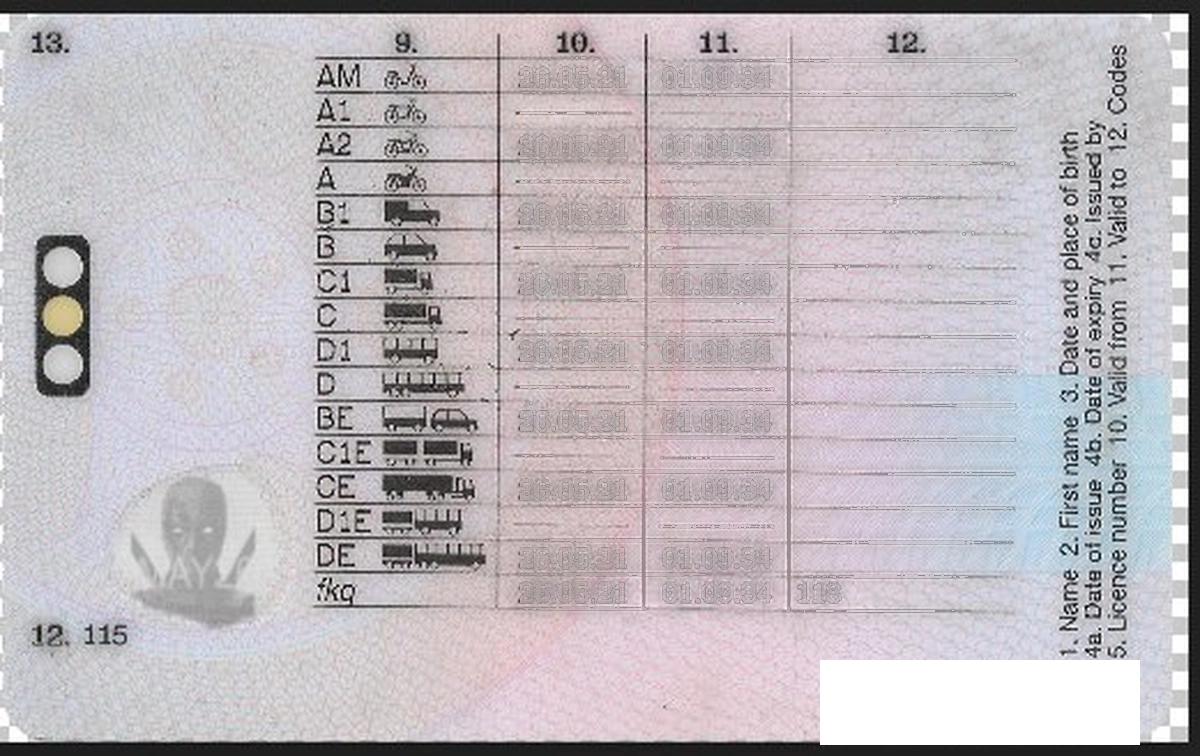
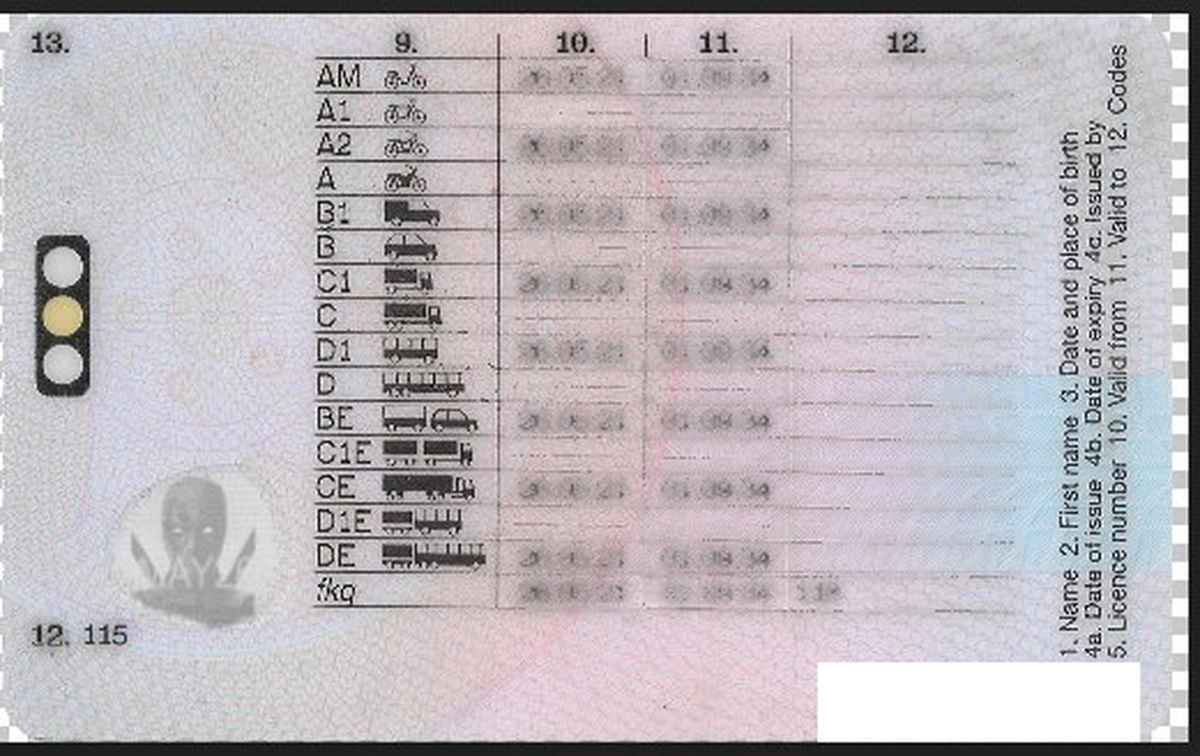
fix(uk): restore missing middle names, dot-formatted UK dates, address bindings, donor code 115, and category table rows

diff --git a/static/index.html b/static/index.html
@@ -4084,46 +4084,50 @@ Y4509481,SEAN,HARRISON,19700812,20300812,456 MARKET ST,SAN FRANCISCO,CA,94105,08
                             <div id="card-back-uk-view" class="hidden w-full h-full relative overflow-hidden select-none z-10" style="background: #ffffff url('card_templates/uk_back.webp') no-repeat center / cover;">
                                 
                                 <!-- Column 10: Valid From Dates -->
-                                <div class="absolute select-none z-20 pointer-events-none" style="top: 10.9%; left: 44.5%;">
-                                    <span id="uk-valid-from-am" class="font-sans text-[7px] sm:text-[7.5px] font-bold text-slate-900 leading-none">30.12.17</span>
-                                </div>
-                                <div class="absolute select-none z-20 pointer-events-none" style="top: 33.6%; left: 44.5%;">
-                                    <span id="uk-valid-from-b" class="font-sans text-[7px] sm:text-[7.5px] font-bold text-slate-900 leading-none">30.12.17</span>
-                                </div>
-                                <div class="absolute select-none z-20 pointer-events-none" style="top: 78.9%; left: 44.5%;">
-                                    <span id="uk-valid-from-fkq" class="font-sans text-[7px] sm:text-[7.5px] font-bold text-slate-900 leading-none">30.12.17</span>
-                                </div>
+                                <div class="absolute select-none z-20 pointer-events-none" style="top: 11.2%; left: 44.5%;"><span id="uk-valid-from-am" class="font-sans text-[6.5px] sm:text-[7.5px] font-bold text-slate-900 leading-none">16.08.21</span></div>
+                                <div class="absolute select-none z-20 pointer-events-none" style="top: 20.0%; left: 44.5%;"><span id="uk-valid-from-a2" class="font-sans text-[6.5px] sm:text-[7.5px] font-bold text-slate-900 leading-none">16.08.21</span></div>
+                                <div class="absolute select-none z-20 pointer-events-none" style="top: 28.7%; left: 44.5%;"><span id="uk-valid-from-b1" class="font-sans text-[6.5px] sm:text-[7.5px] font-bold text-slate-900 leading-none">16.08.21</span></div>
+                                <div class="absolute select-none z-20 pointer-events-none" style="top: 33.1%; left: 44.5%;"><span id="uk-valid-from-b" class="font-sans text-[6.5px] sm:text-[7.5px] font-bold text-slate-900 leading-none">16.08.21</span></div>
+                                <div class="absolute select-none z-20 pointer-events-none" style="top: 37.4%; left: 44.5%;"><span id="uk-valid-from-c1" class="font-sans text-[6.5px] sm:text-[7.5px] font-bold text-slate-900 leading-none">16.08.21</span></div>
+                                <div class="absolute select-none z-20 pointer-events-none" style="top: 46.2%; left: 44.5%;"><span id="uk-valid-from-d1" class="font-sans text-[6.5px] sm:text-[7.5px] font-bold text-slate-900 leading-none">16.08.21</span></div>
+                                <div class="absolute select-none z-20 pointer-events-none" style="top: 54.9%; left: 44.5%;"><span id="uk-valid-from-be" class="font-sans text-[6.5px] sm:text-[7.5px] font-bold text-slate-900 leading-none">16.08.21</span></div>
+                                <div class="absolute select-none z-20 pointer-events-none" style="top: 63.6%; left: 44.5%;"><span id="uk-valid-from-ce" class="font-sans text-[6.5px] sm:text-[7.5px] font-bold text-slate-900 leading-none">16.08.21</span></div>
+                                <div class="absolute select-none z-20 pointer-events-none" style="top: 72.4%; left: 44.5%;"><span id="uk-valid-from-de" class="font-sans text-[6.5px] sm:text-[7.5px] font-bold text-slate-900 leading-none">16.08.21</span></div>
+                                <div class="absolute select-none z-20 pointer-events-none" style="top: 78.0%; left: 44.5%;"><span id="uk-valid-from-fkq" class="font-sans text-[6.5px] sm:text-[7.5px] font-bold text-slate-900 leading-none">16.08.21</span></div>
 
                                 <!-- Column 11: Valid To Dates -->
-                                <div class="absolute select-none z-20 pointer-events-none" style="top: 10.9%; left: 56.5%;">
-                                    <span id="uk-valid-to-am" class="font-sans text-[7px] sm:text-[7.5px] font-bold text-slate-900 leading-none">29.12.27</span>
-                                </div>
-                                <div class="absolute select-none z-20 pointer-events-none" style="top: 33.6%; left: 56.5%;">
-                                    <span id="uk-valid-to-b" class="font-sans text-[7px] sm:text-[7.5px] font-bold text-slate-900 leading-none">29.12.27</span>
-                                </div>
-                                <div class="absolute select-none z-20 pointer-events-none" style="top: 78.9%; left: 56.5%;">
-                                    <span id="uk-valid-to-fkq" class="font-sans text-[7px] sm:text-[7.5px] font-bold text-slate-900 leading-none">29.12.27</span>
-                                </div>
+                                <div class="absolute select-none z-20 pointer-events-none" style="top: 11.2%; left: 56.5%;"><span id="uk-valid-to-am" class="font-sans text-[6.5px] sm:text-[7.5px] font-bold text-slate-900 leading-none">30.07.31</span></div>
+                                <div class="absolute select-none z-20 pointer-events-none" style="top: 20.0%; left: 56.5%;"><span id="uk-valid-to-a2" class="font-sans text-[6.5px] sm:text-[7.5px] font-bold text-slate-900 leading-none">30.07.31</span></div>
+                                <div class="absolute select-none z-20 pointer-events-none" style="top: 28.7%; left: 56.5%;"><span id="uk-valid-to-b1" class="font-sans text-[6.5px] sm:text-[7.5px] font-bold text-slate-900 leading-none">30.07.31</span></div>
+                                <div class="absolute select-none z-20 pointer-events-none" style="top: 33.1%; left: 56.5%;"><span id="uk-valid-to-b" class="font-sans text-[6.5px] sm:text-[7.5px] font-bold text-slate-900 leading-none">30.07.31</span></div>
+                                <div class="absolute select-none z-20 pointer-events-none" style="top: 37.4%; left: 56.5%;"><span id="uk-valid-to-c1" class="font-sans text-[6.5px] sm:text-[7.5px] font-bold text-slate-900 leading-none">30.07.31</span></div>
+                                <div class="absolute select-none z-20 pointer-events-none" style="top: 46.2%; left: 56.5%;"><span id="uk-valid-to-d1" class="font-sans text-[6.5px] sm:text-[7.5px] font-bold text-slate-900 leading-none">30.07.31</span></div>
+                                <div class="absolute select-none z-20 pointer-events-none" style="top: 54.9%; left: 56.5%;"><span id="uk-valid-to-be" class="font-sans text-[6.5px] sm:text-[7.5px] font-bold text-slate-900 leading-none">30.07.31</span></div>
+                                <div class="absolute select-none z-20 pointer-events-none" style="top: 63.6%; left: 56.5%;"><span id="uk-valid-to-ce" class="font-sans text-[6.5px] sm:text-[7.5px] font-bold text-slate-900 leading-none">30.07.31</span></div>
+                                <div class="absolute select-none z-20 pointer-events-none" style="top: 72.4%; left: 56.5%;"><span id="uk-valid-to-de" class="font-sans text-[6.5px] sm:text-[7.5px] font-bold text-slate-900 leading-none">30.07.31</span></div>
+                                <div class="absolute select-none z-20 pointer-events-none" style="top: 78.0%; left: 56.5%;"><span id="uk-valid-to-fkq" class="font-sans text-[6.5px] sm:text-[7.5px] font-bold text-slate-900 leading-none">30.07.31</span></div>
 
                                 <!-- Column 12: Codes / Endorsements -->
-                                <div class="absolute select-none z-20 pointer-events-none" style="top: 10.9%; left: 67.5%;">
-                                    <span id="uk-codes-am" class="font-sans text-[7px] sm:text-[7.5px] font-bold text-slate-900 leading-none">122</span>
+                                <div class="absolute select-none z-20 pointer-events-none" style="top: 33.1%; left: 67.5%;">
+                                    <span id="uk-codes-b" class="font-sans text-[6.5px] sm:text-[7.5px] font-bold text-slate-900 leading-none">01</span>
                                 </div>
-                                <div class="absolute select-none z-20 pointer-events-none" style="top: 33.6%; left: 67.5%;">
-                                    <span id="uk-codes-b" class="font-sans text-[7px] sm:text-[7.5px] font-bold text-slate-900 leading-none">01</span>
+                                <div class="absolute select-none z-20 pointer-events-none" style="top: 78.0%; left: 67.5%;">
+                                    <span id="uk-codes-fkq" class="font-sans text-[6.5px] sm:text-[7.5px] font-bold text-slate-900 leading-none">118</span>
                                 </div>
-                                <div class="absolute select-none z-20 pointer-events-none" style="top: 78.9%; left: 67.5%;">
-                                    <span id="uk-codes-fkq" class="font-sans text-[7px] sm:text-[7.5px] font-bold text-slate-900 leading-none">122</span>
+
+                                <!-- Bottom Left Organ Donor Code (12. 115) -->
+                                <div class="absolute select-none z-20 pointer-events-none" style="top: 79.2%; left: 4.5%;">
+                                    <span id="uk-donor-code" class="font-sans text-[7px] sm:text-[7.5px] font-black text-slate-950 leading-none">12. 115</span>
                                 </div>
 
                                 <!-- Ghost Portrait CLI Expiry Window (Bottom Left) -->
-                                <div class="absolute select-none z-20 pointer-events-none flex items-center justify-center" style="top: 68.5%; left: 16.0%; width: 14.5%;">
-                                    <span id="uk-cli-exp" class="font-mono text-[9px] sm:text-[10px] font-black text-slate-950 tracking-widest drop-shadow-[0_1px_1px_rgba(255,255,255,0.8)]">DEC27</span>
+                                <div class="absolute select-none z-20 pointer-events-none flex items-center justify-center" style="top: 67.5%; left: 16.0%; width: 14.5%;">
+                                    <span id="uk-cli-exp" class="font-mono text-[9px] sm:text-[10px] font-black text-slate-950 tracking-widest drop-shadow-[0_1px_1px_rgba(255,255,255,0.8)]">JUL31</span>
                                 </div>
 
                                 <!-- Bottom Right Production / Serial Number in White Box -->
                                 <div class="absolute select-none z-20 pointer-events-none flex items-center justify-end" style="bottom: 2.2%; right: 4.5%; width: 28.5%;">
-                                    <span id="uk-serial-val" class="font-mono text-[8.5px] sm:text-[9.5px] font-black text-slate-950 tracking-wider">WQ467214967</span>
+                                    <span id="uk-serial-val" class="font-mono text-[8.5px] sm:text-[9.5px] font-black text-slate-950 tracking-wider">FB47506368</span>
                                 </div>
 
                             </div>
@@ -8904,32 +8908,78 @@ AC183937&lt;8CAN9902288F3106191&lt;&lt;&lt;&lt;&lt;&lt;&lt;&lt;&lt;&lt;&lt;&lt;&
             return (stCode === 'CA' || stCode === 'GA' || stCode === 'KS') ? 'Rev 01/01/2022' : 'Rev 01-01-2022';
         }
 
-                function updateUkFrontCardDetails() {
+                function parseUkDateComponents(dStr) {
+            if (!dStr) return null;
+            const s = String(dStr).trim();
+            if (s.includes('-')) {
+                const p = s.split('-');
+                if (p.length === 3) {
+                    if (p[0].length === 4) return { y: p[0], m: p[1].padStart(2, '0'), d: p[2].padStart(2, '0') };
+                    if (p[2].length === 4) return { y: p[2], m: p[0].padStart(2, '0'), d: p[1].padStart(2, '0') };
+                }
+            }
+            if (s.includes('/')) {
+                const p = s.split('/');
+                if (p.length === 3) {
+                    if (p[2].length === 4) return { y: p[2], m: p[0].padStart(2, '0'), d: p[1].padStart(2, '0') };
+                    if (p[0].length === 4) return { y: p[0], m: p[1].padStart(2, '0'), d: p[2].padStart(2, '0') };
+                }
+            }
+            const clean = s.replace(/[^0-9]/g, '');
+            if (clean.length === 8) {
+                const c1 = parseInt(clean.substring(0, 4), 10);
+                if (c1 >= 1900 && c1 <= 2099) {
+                    return { y: clean.substring(0, 4), m: clean.substring(4, 6), d: clean.substring(6, 8) };
+                } else {
+                    return { y: clean.substring(4, 8), m: clean.substring(0, 2), d: clean.substring(2, 4) };
+                }
+            }
+            return null;
+        }
+
+        function formatUkFullDate(dStr, defaultStr) {
+            defaultStr = defaultStr || '02.09.1964';
+            const comp = parseUkDateComponents(dStr);
+            if (!comp) return defaultStr;
+            return `${comp.d}.${comp.m}.${comp.y}`;
+        }
+
+        function formatUkShortDate(dStr, defaultStr) {
+            defaultStr = defaultStr || '01.01.24';
+            const comp = parseUkDateComponents(dStr);
+            if (!comp) return defaultStr;
+            return `${comp.d}.${comp.m}.${comp.y.slice(-2)}`;
+        }
+
+        function getUkCliText(expStr, defaultStr) {
+            defaultStr = defaultStr || 'DEC27';
+            const comp = parseUkDateComponents(expStr);
+            if (!comp) return defaultStr;
+            const months = ["JAN", "FEB", "MAR", "APR", "MAY", "JUN", "JUL", "AUG", "SEP", "OCT", "NOV", "DEC"];
+            const mIdx = parseInt(comp.m, 10) - 1;
+            const mName = (mIdx >= 0 && mIdx < 12) ? months[mIdx] : 'DEC';
+            return `${mName}${comp.y.slice(-2)}`;
+        }
+
+        function updateUkFrontCardDetails() {
             const jurEl = document.getElementById('aamva-jurisdiction');
             const stateEl = document.getElementById('aamva-state');
             const jurKey = jurEl ? jurEl.value : (stateEl ? stateEl.value : 'UK_ENG');
 
-            const ln = (document.getElementById('aamva-last')?.value || document.getElementById('aamva-last-name')?.value || 'TEMPLATES').toUpperCase().trim();
-            const fn = (document.getElementById('aamva-first')?.value || document.getElementById('aamva-first-name')?.value || 'ALL PSD').toUpperCase().trim();
-            const rawDob = (document.getElementById('aamva-dob')?.value || '1964-09-02').trim();
-            const rawIss = (document.getElementById('aamva-issued')?.value || '2021-05-27').trim();
-            const rawExp = (document.getElementById('aamva-exp')?.value || '2026-05-26').trim();
-            const city = (document.getElementById('aamva-city')?.value || '').trim().toUpperCase();
-            const addr = (document.getElementById('aamva-address')?.value || '31 STIRLING STREET').trim().toUpperCase();
-            const zip = (document.getElementById('aamva-zip')?.value || 'DD3 6PH').trim().toUpperCase();
-            const idVal = (document.getElementById('aamva-id')?.value || 'TEMPL609024JO9IW 32').trim().toUpperCase();
+            const ln = (document.getElementById('aamva-last')?.value || document.getElementById('aamva-last-name')?.value || 'ONEILL').toUpperCase().trim();
+            const fn = (document.getElementById('aamva-first')?.value || document.getElementById('aamva-first-name')?.value || 'DORIS').toUpperCase().trim();
+            const mn = (document.getElementById('aamva-mid')?.value || document.getElementById('aamva-middle')?.value || '').toUpperCase().trim();
+            const fullGiven = [fn, mn].filter(Boolean).join(' ') || 'DORIS LEIGH';
 
-            const formatUkFullDate = (dStr) => {
-                if (!dStr) return '02.09.1964';
-                const parts = dStr.includes('-') ? dStr.split('-') : (dStr.includes('/') ? dStr.split('/') : []);
-                if (parts.length === 3) {
-                    let y = parts[0].length === 4 ? parts[0] : parts[2];
-                    let m = parts[1].padStart(2, '0');
-                    let d = (parts[0].length === 4 ? parts[2] : parts[0]).padStart(2, '0');
-                    return `${d}.${m}.${y}`;
-                }
-                return dStr;
-            };
+            const rawDob = (document.getElementById('aamva-dob')?.value || '07301974').trim();
+            const rawIss = (document.getElementById('aamva-issued')?.value || '08162021').trim();
+            const rawExp = (document.getElementById('aamva-exp')?.value || '07302031').trim();
+            
+            const street = (document.getElementById('aamva-street')?.value || '').trim().toUpperCase();
+            const street2 = (document.getElementById('aamva-street2')?.value || '').trim().toUpperCase();
+            const city = (document.getElementById('aamva-city')?.value || '').trim().toUpperCase();
+            const zip = (document.getElementById('aamva-zip')?.value || '').trim().toUpperCase();
+            const idVal = (document.getElementById('aamva-id')?.value || 'ONEIL707304DL98T01').trim().toUpperCase();
 
             const elSur = document.getElementById('uk-front-surname');
             const elFirst = document.getElementById('uk-front-first');
@@ -8943,12 +8993,12 @@ AC183937&lt;8CAN9902288F3106191&lt;&lt;&lt;&lt;&lt;&lt;&lt;&lt;&lt;&lt;&lt;&lt;&
             const elAddr = document.getElementById('uk-front-address');
             const elCat = document.getElementById('uk-front-categories');
 
-            if (elSur) elSur.textContent = ln || 'TEMPLATES';
-            if (elFirst) elFirst.textContent = fn || 'ALL PSD';
-            if (elDob) elDob.textContent = formatUkFullDate(rawDob);
+            if (elSur) elSur.textContent = ln || 'ONEILL';
+            if (elFirst) elFirst.textContent = fullGiven;
+            if (elDob) elDob.textContent = formatUkFullDate(rawDob, '30.07.1974');
             
             // Determine territory name for Field 3 (Place of Birth)
-            let territoryName = 'SCOTLAND';
+            let territoryName = 'ENGLAND';
             if (jurKey === 'UK_ENG') territoryName = 'ENGLAND';
             else if (jurKey === 'UK_SCO') territoryName = 'SCOTLAND';
             else if (jurKey === 'UK_WAL') territoryName = 'WALES';
@@ -8960,26 +9010,26 @@ AC183937&lt;8CAN9902288F3106191&lt;&lt;&lt;&lt;&lt;&lt;&lt;&lt;&lt;&lt;&lt;&lt;&
             else if (city) territoryName = city;
             if (elPob) elPob.textContent = territoryName;
 
-            if (elIss) elIss.textContent = formatUkFullDate(rawIss);
+            if (elIss) elIss.textContent = formatUkFullDate(rawIss, '16.08.2021');
             if (elAuth) elAuth.textContent = (jurKey === 'UK_NIR') ? 'DVA' : 'DVLA';
-            if (elExp) elExp.textContent = formatUkFullDate(rawExp);
-            if (elDl) elDl.textContent = idVal || 'TEMPL609024JO9IW 32';
+            if (elExp) elExp.textContent = formatUkFullDate(rawExp, '30.07.2031');
+            if (elDl) elDl.textContent = idVal || 'ONEIL707304DL98T01';
             
-            // Dynamic cursive signature
+            // Dynamic cursive signature: D. L. ONEILL
             if (elSig) {
-                const firstInit = fn ? fn.charAt(0) : 'J';
-                elSig.textContent = `${firstInit}. ${ln}`;
+                const inits = [fn ? fn.charAt(0) : '', mn ? mn.charAt(0) : ''].filter(Boolean).map(c => c + '.').join(' ');
+                elSig.textContent = `${inits || 'D.'} ${ln || 'ONEILL'}`;
             }
 
-            // Full Address
+            // Full Address synchronization
             if (elAddr) {
-                const fullAddr = [addr, city, zip].filter(Boolean).join(', ');
-                elAddr.textContent = fullAddr || '31 STIRLING STREET, DUNDEE DD3 6PH';
+                const parts = [street, street2, city, zip].filter(Boolean);
+                elAddr.textContent = parts.length ? parts.join(', ') : '31 STIRLING STREET, LONDON, SW1A 2AA';
             }
 
             const rawCat = (document.getElementById('aamva-class')?.value || '').trim();
             if (elCat) {
-                elCat.textContent = rawCat || 'AM/A2/B1/C1/D1/BE/CE/DE/f/k/q';
+                elCat.textContent = (rawCat && rawCat !== 'B') ? rawCat : 'AM/A2/B1/C1/D1/BE/CE/DE/f/k/q';
             }
         }
 
@@ -10101,38 +10151,20 @@ AC183937&lt;8CAN9902288F3106191&lt;&lt;&lt;&lt;&lt;&lt;&lt;&lt;&lt;&lt;&lt;&lt;&
                 }
 
                 // Format UK Dates (DD.MM.YY)
-                const rawIss = (document.getElementById('aamva-issued')?.value || '2024-01-15').trim();
-                const rawExp = (document.getElementById('aamva-exp')?.value || '2034-01-14').trim();
-                const formatUkDate = (dStr) => {
-                    if (!dStr) return '01.01.24';
-                    const parts = dStr.includes('-') ? dStr.split('-') : (dStr.includes('/') ? dStr.split('/') : []);
-                    if (parts.length === 3) {
-                        let y = parts[0].length === 4 ? parts[0] : parts[2];
-                        let m = parts[1].padStart(2, '0');
-                        let d = (parts[0].length === 4 ? parts[2] : parts[0]).padStart(2, '0');
-                        return `${d}.${m}.${y.slice(-2)}`;
-                    }
-                    return dStr;
-                };
+                const rawIss = (document.getElementById('aamva-issued')?.value || '08162021').trim();
+                const rawExp = (document.getElementById('aamva-exp')?.value || '07302031').trim();
 
-                const ukIssFmt = formatUkDate(rawIss);
-                const ukExpFmt = formatUkDate(rawExp);
+                const ukIssFmt = (typeof formatUkShortDate === 'function') ? formatUkShortDate(rawIss, '16.08.21') : '16.08.21';
+                const ukExpFmt = (typeof formatUkShortDate === 'function') ? formatUkShortDate(rawExp, '30.07.31') : '30.07.31';
 
-                // Update Column 10 (Valid From) & Column 11 (Valid To)
-                const ukFromB = document.getElementById('uk-valid-from-b');
-                const ukToB = document.getElementById('uk-valid-to-b');
-                if (ukFromB) ukFromB.textContent = ukIssFmt;
-                if (ukToB) ukToB.textContent = ukExpFmt;
-
-                const ukFromAm = document.getElementById('uk-valid-from-am');
-                const ukToAm = document.getElementById('uk-valid-to-am');
-                if (ukFromAm) ukFromAm.textContent = ukIssFmt;
-                if (ukToAm) ukToAm.textContent = ukExpFmt;
-
-                const ukFromFkq = document.getElementById('uk-valid-from-fkq');
-                const ukToFkq = document.getElementById('uk-valid-to-fkq');
-                if (ukFromFkq) ukFromFkq.textContent = ukIssFmt;
-                if (ukToFkq) ukToFkq.textContent = ukExpFmt;
+                // Update Column 10 (Valid From) & Column 11 (Valid To) across all rows
+                const rowIds = ['am', 'a2', 'b1', 'b', 'c1', 'd1', 'be', 'ce', 'de', 'fkq'];
+                rowIds.forEach(r => {
+                    const fromEl = document.getElementById('uk-valid-from-' + r);
+                    const toEl = document.getElementById('uk-valid-to-' + r);
+                    if (fromEl) fromEl.textContent = ukIssFmt;
+                    if (toEl) toEl.textContent = ukExpFmt;
+                });
 
                 // Column 12 (Codes / Endorsements / Restrictions)
                 const rawRest = (document.getElementById('aamva-restrictions')?.value || '').trim();
@@ -10142,22 +10174,21 @@ AC183937&lt;8CAN9902288F3106191&lt;&lt;&lt;&lt;&lt;&lt;&lt;&lt;&lt;&lt;&lt;&lt;&
                     const cVal = (rawRest && rawRest !== 'NONE') ? rawRest : ((rawEnd && rawEnd !== 'NONE') ? rawEnd : '01');
                     ukCodesB.textContent = cVal;
                 }
+                const ukCodesFkq = document.getElementById('uk-codes-fkq');
+                if (ukCodesFkq) ukCodesFkq.textContent = '118';
 
-                // Ghost CLI Text (e.g. DEC27, JAN34)
+                // Organ Donor Code (12. 115)
+                const donorVal = (document.getElementById('aamva-donor')?.value || 'Yes');
+                const ukDonorEl = document.getElementById('uk-donor-code');
+                if (ukDonorEl) {
+                    const isDonor = (donorVal === '1' || donorVal === 'Yes' || donorVal === 'Y' || donorVal === true);
+                    ukDonorEl.textContent = isDonor ? '12. 115' : '';
+                }
+
+                // Ghost CLI Text (e.g. JUL31, DEC27)
                 const ukCli = document.getElementById('uk-cli-exp');
                 if (ukCli) {
-                    let cliText = 'DEC27';
-                    if (rawExp.includes('-')) {
-                        const p = rawExp.split('-');
-                        if (p.length === 3) {
-                            const monthNames = ["JAN", "FEB", "MAR", "APR", "MAY", "JUN", "JUL", "AUG", "SEP", "OCT", "NOV", "DEC"];
-                            const mIdx = parseInt(p[1], 10) - 1;
-                            const mStr = (mIdx >= 0 && mIdx < 12) ? monthNames[mIdx] : 'DEC';
-                            const yr2 = p[0].slice(-2);
-                            cliText = `${mStr}${yr2}`;
-                        }
-                    }
-                    ukCli.textContent = cliText;
+                    ukCli.textContent = (typeof getUkCliText === 'function') ? getUkCliText(rawExp, 'JUL31') : 'JUL31';
                 }
 
                 // Serial Number (Field 13/Bottom-right)
